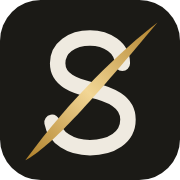
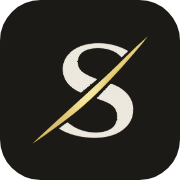
Usar los archivos de marca originales y arreglar el deploy desde GitHub
MARCA. Se reemplaza el logotipo dibujado por CSS —texto con una barra
dorada puesta encima con un pseudo-elemento— por el PNG del diseñador.
Aquello se veía parecido pero era una imitación: dependía de que el
navegador tuviera la tipografía justa y la barra se corría al cambiar el
tamaño. De los dos originales salen seis archivos: el logotipo con y sin
su bajada, el símbolo suelto, y las variantes en hueso para los fondos
oscuros. El componente sirve las dos y elige el CSS, no JavaScript:
decidirlo en JS haría aparecer la equivocada en la primera pintura.

El `S logo.png` ya venía con fondo transparente —el gris era del visor—
así que el símbolo no necesitó recorte alguno; del `MESSA logo.png` se
quitó el blanco dejando los bordes semitransparentes, para que las letras
no queden dentadas.

ÍCONOS. La S tachada real, sobre el cuadrado oscuro de la marca, en 512,
192, 180 y 64. Va sobre fondo y no suelta porque a 16 px en la pestaña y
en la pantalla de inicio, una S gris sobre transparente se pierde contra
los fondos claros y contra los oscuros por igual. Se ocupa el 78 % del
lado para que Android pueda recortar a la forma del sistema sin comerse
las puntas de la hoja.

DEPLOY DESDE GITHUB. El workflow existía pero estaba detrás de
`vars.CLOUDFLARE_ENABLED == 'true'`, una variable del repositorio que
nunca se creó: cada push se salteaba en silencio y no publicaba nada.
Ahora la condición es la única que importa —si está el token, se
[…]

Changed region(s): [[0.1389, 0.1389, 0.8611, 0.8889], [0.5556, 0.5556, 0.6111, 0.5833]]

diff --git a/app/globals.css b/app/globals.css
@@ -5793,3 +5793,41 @@ html[data-admin-theme="light"] .messa-sin-conexion__icono { background: color-mi
 .messa-legal__nota { color: var(--messa-muted, #79736a); font-size: 12.5px !important; }
 .messa-legal__footer { border-top: 1px solid var(--messa-line, rgba(33,30,23,.11)); margin-top: 34px; padding-top: 22px; }
 .messa-legal__footer a { color: var(--messa-accent, #c69a3f); font-size: 13px; font-weight: 600; text-decoration: none; }
+
+/* ══════════════════════════════════════════════════════════════
+   MARCA MESSA — el archivo original, no una reconstrucción
+   ══════════════════════════════════════════════════════════════ */
+
+.messa-wordmark {
+  align-items: center;
+  display: inline-flex;
+  /* Se dimensiona por altura y el ancho lo pone la proporción del archivo,
+     así el logo nunca se estira ni se aplasta. */
+  height: 30px;
+  line-height: 1;
+  text-decoration: none;
+  vertical-align: middle;
+}
+/* La barra dorada ahora viene dentro del PNG: el pseudo-elemento que la
+   dibujaba tiene que desaparecer o quedarían dos. */
+.messa-wordmark::after { content: none !important; }
+
+.messa-wordmark__img { display: block; height: 100%; width: auto; }
+/* Se ve la tinta oscura, que es la de las pantallas claras. La variante
+   hueso sólo aparece cuando el fondo es oscuro de verdad. */
+.messa-wordmark__img--clara { display: none; }
+
+html[data-menu-theme="dark"] .messa-wordmark__img--oscura,
+html[data-admin-theme="dark"] .messa-wordmark__img--oscura { display: none; }
+html[data-menu-theme="dark"] .messa-wordmark__img--clara,
+html[data-admin-theme="dark"] .messa-wordmark__img--clara { display: block; }
+
+/* El panel arranca oscuro salvo que el tema claro esté puesto a propósito. */
+html:not([data-admin-theme="light"]) .admin-shell .messa-wordmark__img--oscura { display: none; }
+html:not([data-admin-theme="light"]) .admin-shell .messa-wordmark__img--clara { display: block; }
+
+/* Tamaños según dónde aparece. */
+.messa-home__nav .messa-wordmark { height: 24px; }
+.messa-login__wordmark, .messa-legal__header .messa-wordmark { height: 32px; }
+.messa-entrada .messa-wordmark { height: 28px; }
+.admin-dock-brand .messa-wordmark { height: 19px; }

diff --git a/components/messa-wordmark.tsx b/components/messa-wordmark.tsx
@@ -1,20 +1,24 @@
 import type { HTMLAttributes } from 'react'
 
 /**
- * Marca MESSA.
+ * Marca MESSA — el archivo original del diseñador, no una reconstrucción.
  *
- * La barra dorada tiene que cruzar la SEGUNDA S, no un punto cualquiera de la
- * palabra. Antes era un pseudo-elemento colocado con porcentajes sobre todo el
- * texto: al cambiar el tamaño de fuente o el espaciado entre letras se corría
- * y terminaba cayendo entre las dos eses. Ahora esa letra es su propio
- * elemento y la barra cuelga de ella, así queda clavada en cualquier tamaño.
+ * Antes esto era texto con una barra dorada dibujada por CSS sobre la segunda
+ * S. Se veía parecido, pero era una imitación: dependía de que el navegador
+ * tuviera la tipografía justa, y la barra se corría al cambiar el tamaño.
+ * Ahora se sirve el PNG de la marca, idéntico en todos lados.
+ *
+ * Van las dos variantes en el HTML y decide el CSS cuál se ve. Elegirla en
+ * JavaScript según el tema haría que en la primera pintura apareciera la
+ * equivocada y parpadeara al corregirse.
  */
 export default function MessaWordmark({ className = '', ...props }: HTMLAttributes<HTMLSpanElement>) {
   return (
-    <span className={`messa-wordmark ${className}`} aria-label="MESSA" {...props}>
-      <span aria-hidden="true">MES</span>
-      <span aria-hidden="true" className="messa-wordmark__s">S</span>
-      <span aria-hidden="true">A</span>
+    <span className={`messa-wordmark ${className}`} role="img" aria-label="MESSA" {...props}>
+      {/* eslint-disable-next-line @next/next/no-img-element */}
+      <img className="messa-wordmark__img messa-wordmark__img--oscura" src="/marca/messa-wordmark.png" alt="" aria-hidden="true" />
+      {/* eslint-disable-next-line @next/next/no-img-element */}
+      <img className="messa-wordmark__img messa-wordmark__img--clara" src="/marca/messa-wordmark-claro.png" alt="" aria-hidden="true" />
     </span>
   )
 }
